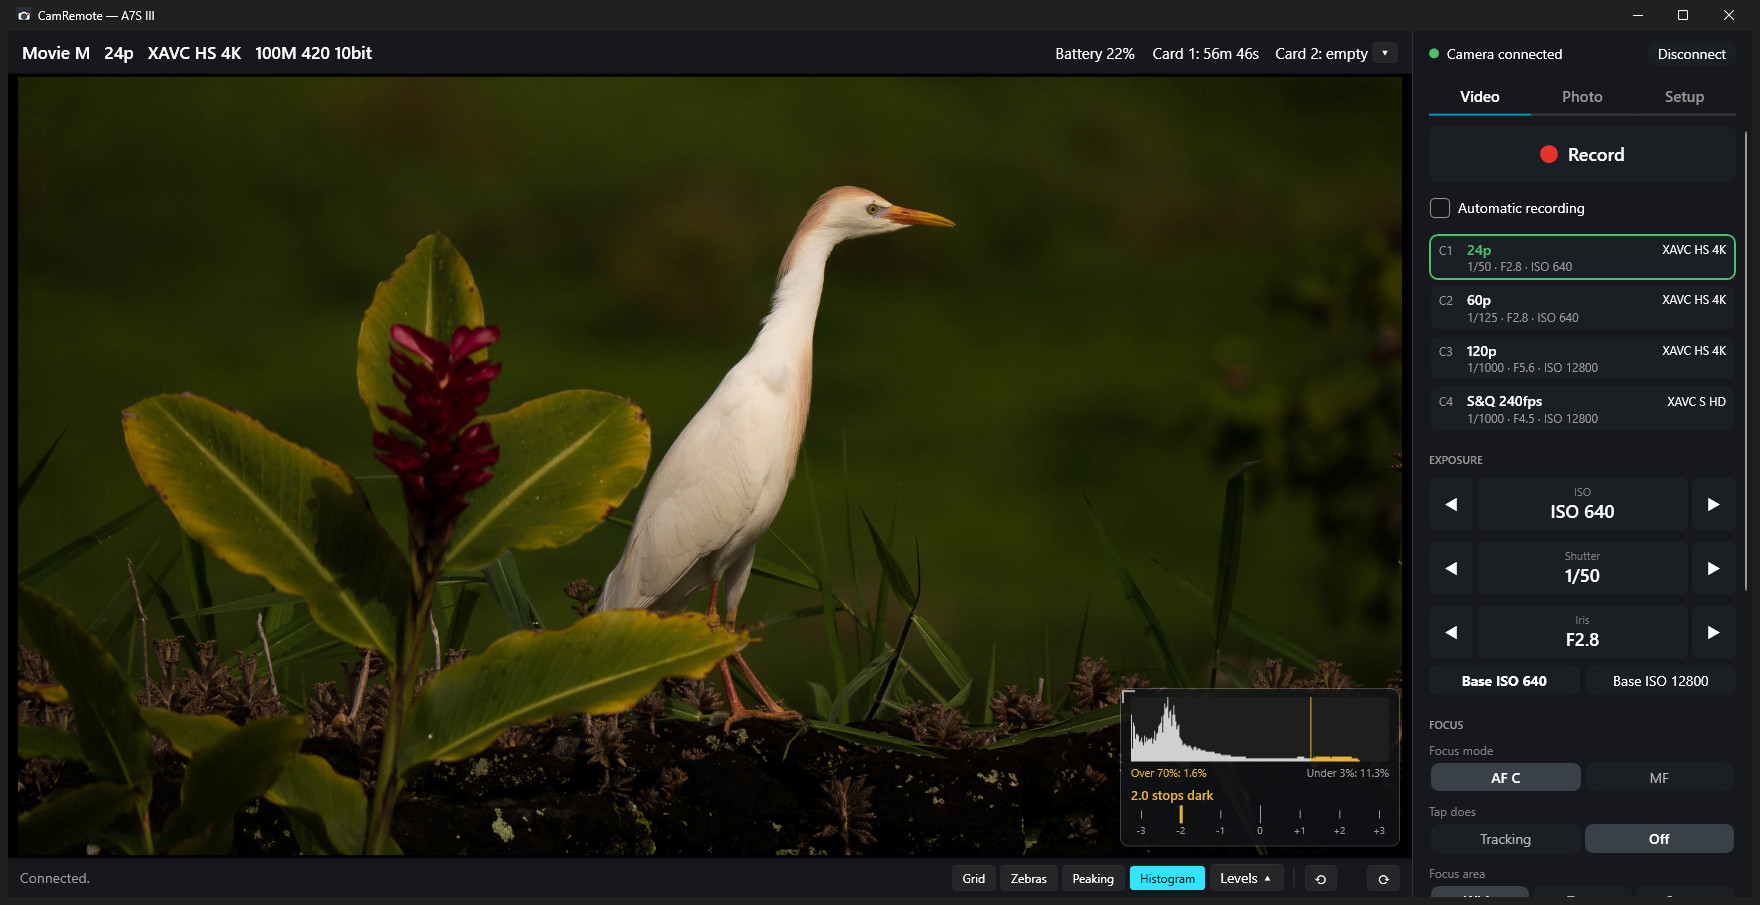
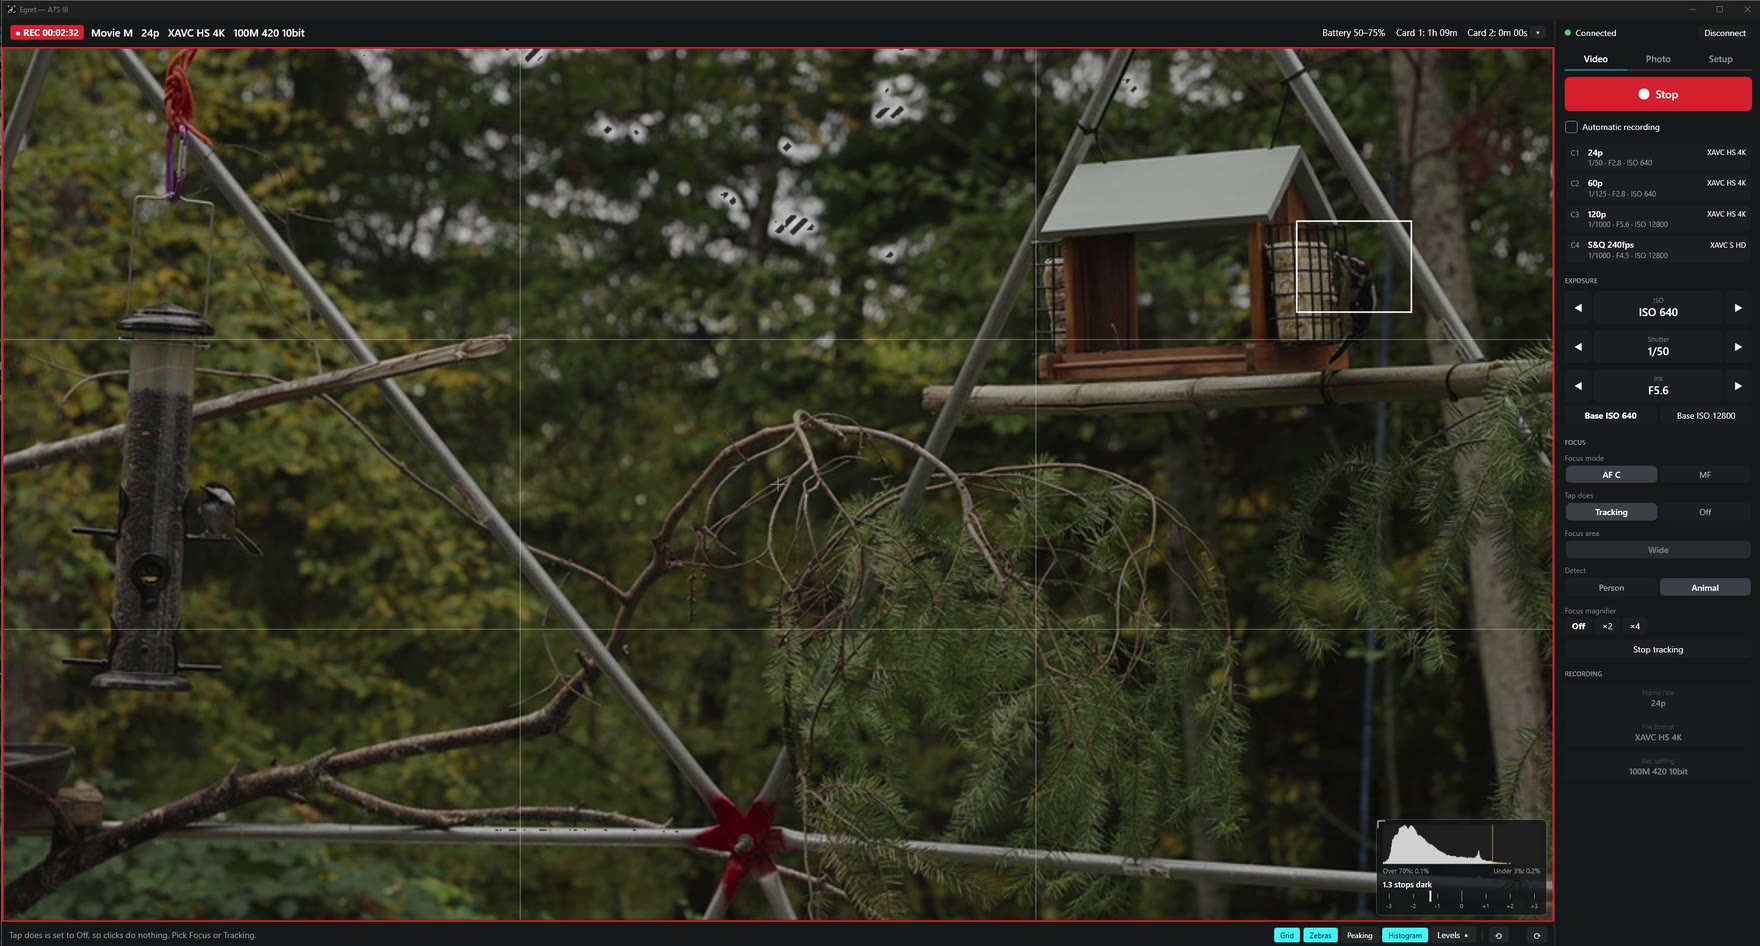
README: pictures and GIFs from today's shoot
The top picture is now today's Egret window at the feeder, recording with
tracking on a woodpecker, instead of the old one that still said
CamRemote in its title bar. Added GIFs of peaking and tracking, a real
3-photo bracket off the A7S III, and three iPhone app screens. The iPhone
app has C1 to C4, not C1 to C3.

diff --git a/README.md b/README.md
@@ -19,7 +19,7 @@ all in one clean window on your computer, with no cables.
 
 <br><br>
 
-<img src="docs/window.jpg" alt="Egret's window: a cattle egret beside a red ginger flower in the live picture, the histogram and meter in the corner, and the Video tab on the right with the Record button, four saved setups and exposure" width="860" />
+<img src="docs/window.jpg" alt="Egret recording a backyard feeder: a woodpecker on the suet with the camera's tracking box around it, REC 00:02:32 at the top left, the grid and zebras on, the histogram in the corner, and the Video tab on the right with Stop, four saved setups, exposure and focus" width="860" />
 
 </div>
 
@@ -66,6 +66,19 @@ Video, photos, bursts, brackets, S&Q slow motion, time-lapse and long exposures.
 
 Click the bird and the camera focuses there. Turn on **Peaking** and the sharp edges light up, like the egret's eye and neck here, so you can tell what's in focus from across the yard. The camera's own focus boxes show what it's locked on, and the magnifier zooms in to check.
 
+</td>
+</tr>
+</table>
+
+<table>
+<tr>
+<td width="50%" valign="top">
+<img src="docs/peaking.gif" alt="Peaking switched on and off at a bird feeder in Egret: the feeder's edges light up blue where they're sharp while a woodpecker feeds inside the camera's focus box" />
+<br><sub><b>Peaking</b> on and off, live over Wi-Fi.</sub>
+</td>
+<td width="50%" valign="top">
+<img src="docs/tracking.gif" alt="Tracking in Egret: the camera's focus box follows a small bird as it moves between two feeders, shown at double speed" />
+<br><sub><b>Tracking</b> follows a bird between feeders (double speed).</sub>
 </td>
 </tr>
 </table>
@@ -133,6 +146,11 @@ The Photo tab has three ways to shoot:
 <img src="docs/photo-modes.png" alt="The Photo tab three ways: Photo with a 1-stop, 3-photo bracket, Time-lapse with one photo every 10 seconds, and Long exposure set to 30 seconds with ND filter choices" width="760" />
 </p>
 
+<p align="center">
+<img src="docs/bracket.jpg" alt="Three photos of the same forest clearing from one bracket: darker at 1/1000, normal at 1/500 and brighter at 1/250" width="860" />
+<br><sub>One press of <b>Take photo</b> with a 1-stop, 3-photo bracket, straight off the A7S III.</sub>
+</p>
+
 <br>
 
 ## It can even film wildlife for you
@@ -153,7 +171,11 @@ Here it has spotted the egret, started recording, put a green box around it and 
 
 ## Coming soon: Egret for iPhone
 
-Run the camera with no computer at all, just your phone and its hotspot. The iPhone app has the live picture, tap to focus, exposure, video, S&Q, photos, burst, time-lapse, C1 to C3 saved setups and the animal trigger, and it can hand the camera to a computer anywhere over Tailscale.
+Run the camera with no computer at all, just your phone and its hotspot. The iPhone app has the live picture, tap to focus, exposure, video, S&Q, photos, burst, time-lapse, C1 to C4 saved setups and the animal trigger, and it can hand the camera to a computer anywhere over Tailscale.
+
+<p align="center">
+<img src="docs/iphone.jpg" alt="Egret for iPhone three ways: recording 60p at a bird feeder with the C1 to C4 setups below, the time-lapse planner set to two hours at one photo every 5 seconds for a one-minute clip, and Computer control on while a computer runs the camera at 120p" width="860" />
+</p>
 
 **You can't download it yet.** It's still being tested, and it'll come to TestFlight, Apple's beta testing app, first. [More about it](#on-your-iphone).
 
@@ -291,7 +313,7 @@ If your computer asks about network access, say yes:
 
 ## On your iPhone
 
-There's also an iPhone app that runs the camera with no computer at all, just your phone's hotspot. It has the live picture, tap to focus, exposure, video, S&Q, photos, burst, time-lapse and C1 to C3 saved setups. Photos and video stay on the camera's card. Close Egret on your computer first: the camera only takes one remote at a time.
+There's also an iPhone app that runs the camera with no computer at all, just your phone's hotspot. It has the live picture, tap to focus, exposure, video, S&Q, photos, burst, time-lapse and C1 to C4 saved setups. Photos and video stay on the camera's card. Close Egret on your computer first: the camera only takes one remote at a time.
 
 It can also record when an animal shows up, with the same rules as on a computer: turn on **Automatic recording** on the Video page and leave **Record when it sees** on **Animal**. **It only works while Egret is open on the phone's screen.** iPhones stop apps that aren't on screen, so if you lock the phone or switch apps, it stops watching (and stops a take it started). While the option is on, the app keeps the screen awake, so keep the phone plugged in: a screen that's on for hours, the hotspot and the detector all use battery. The first time you turn it on, the detector takes up to a minute to get ready.
 
